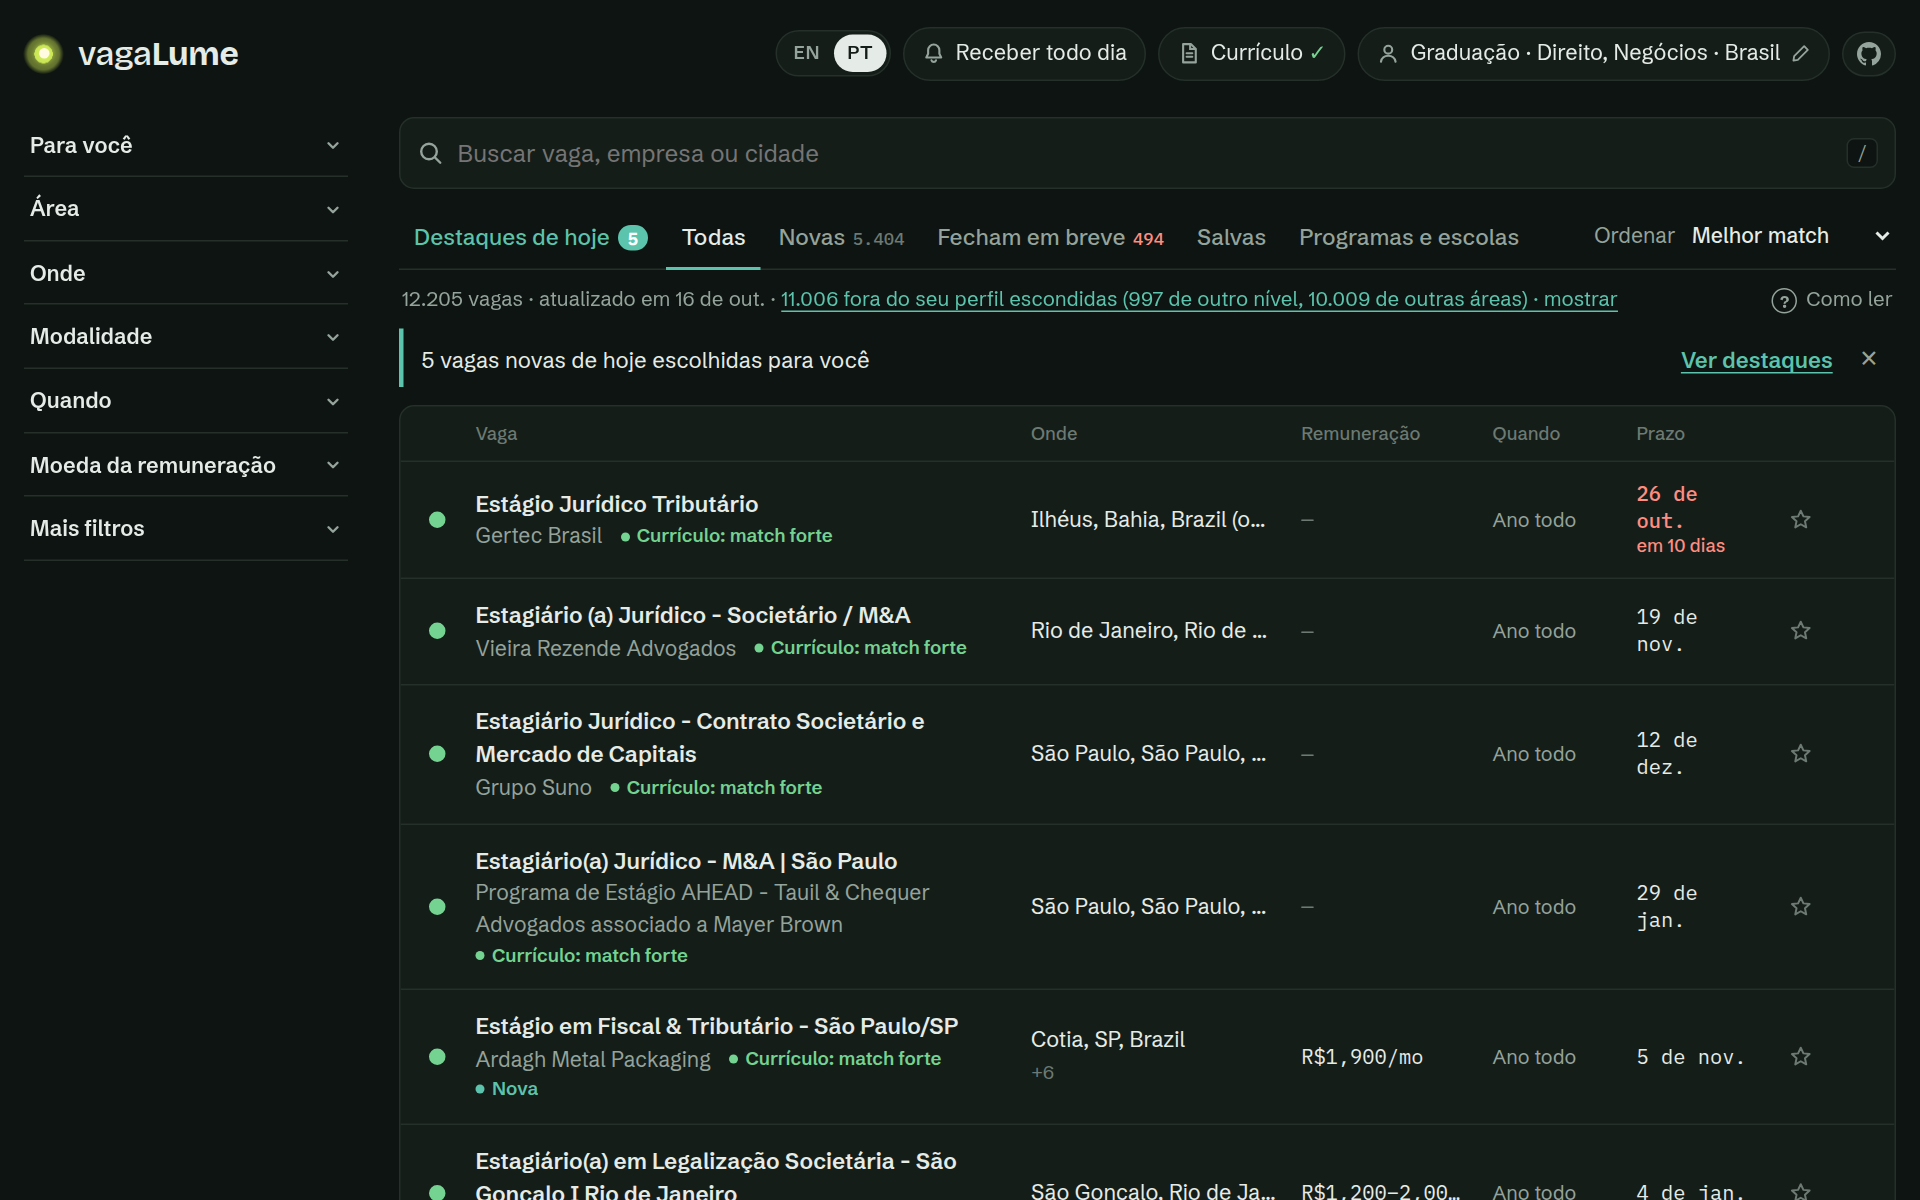
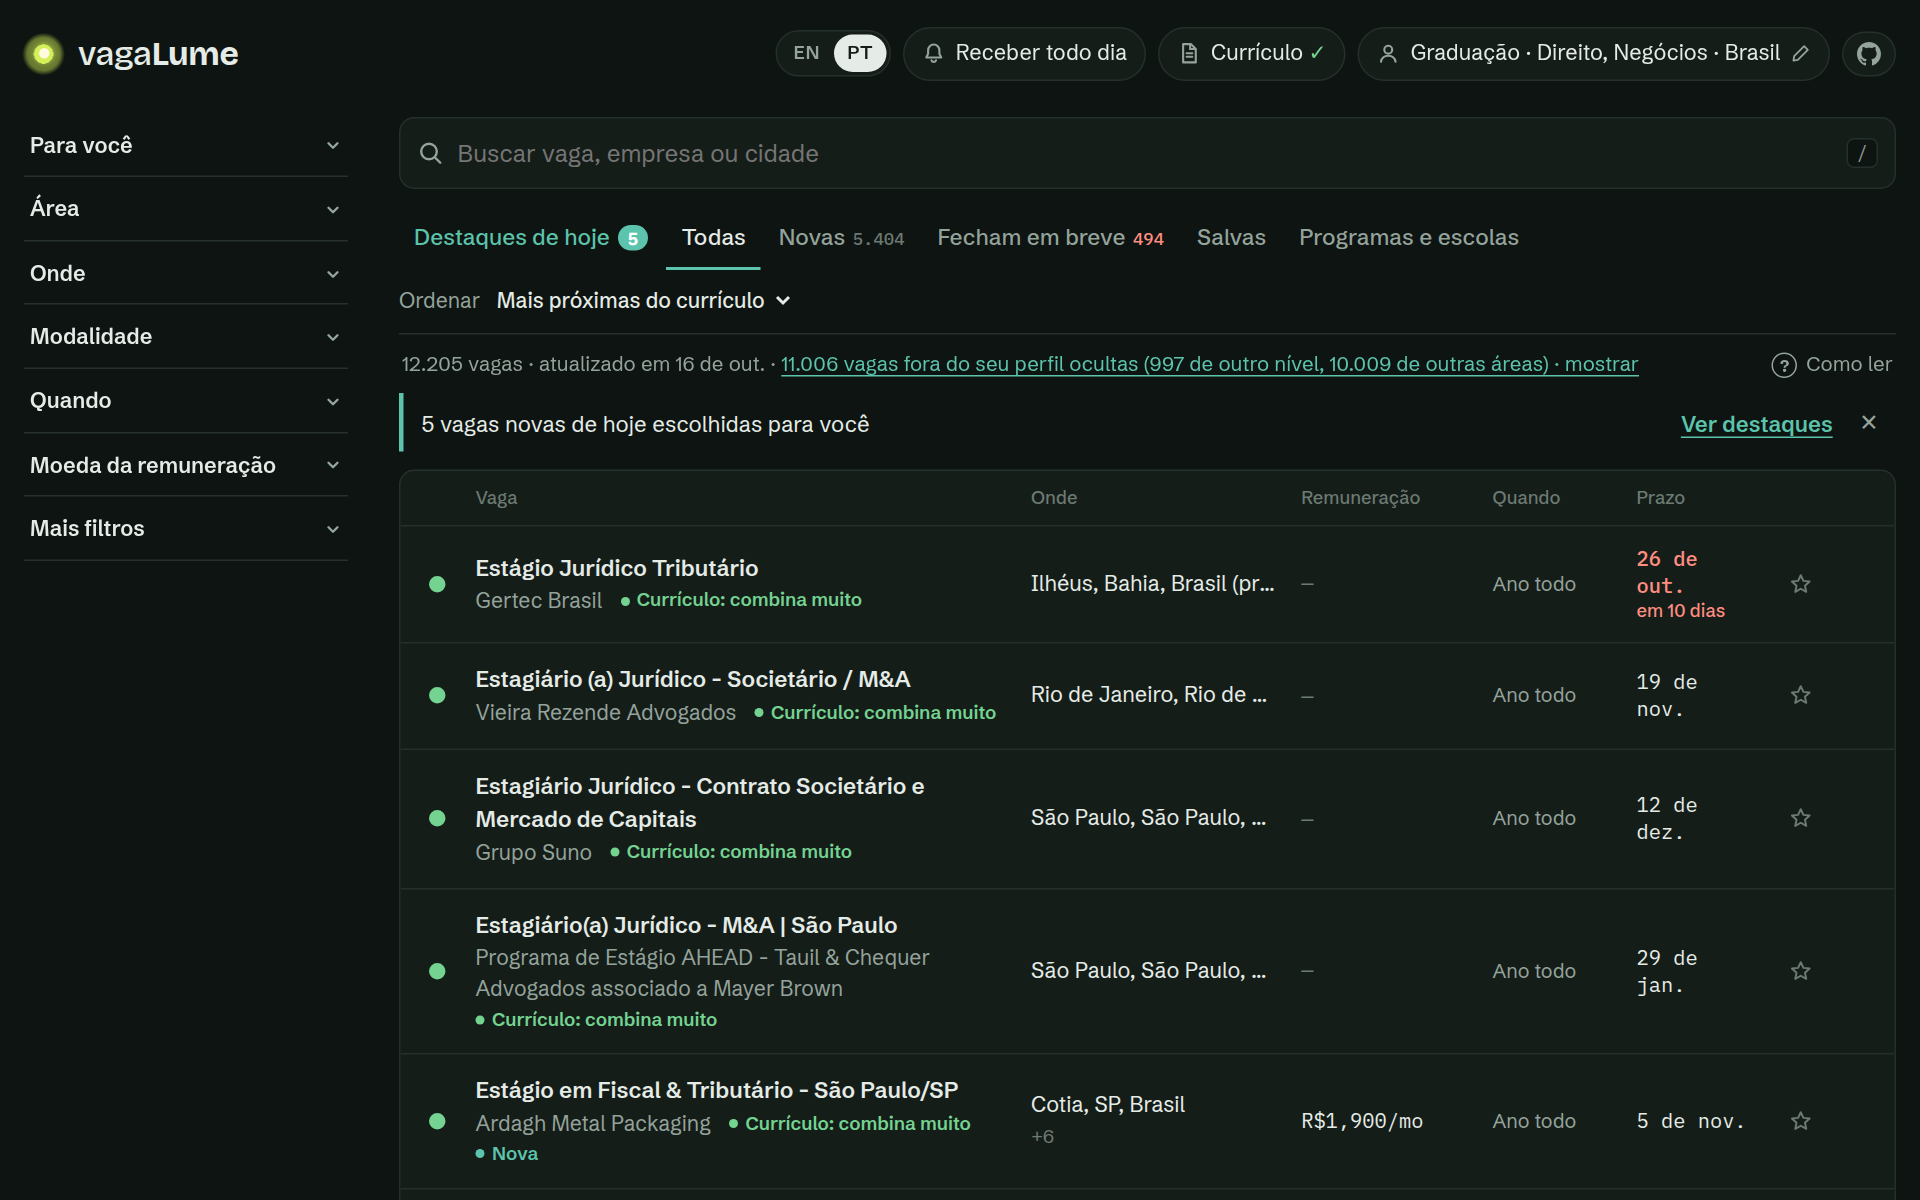
PT-BR skills and places; capitalized seasons; new shots

diff --git a/docs/index.html b/docs/index.html
@@ -909,6 +909,29 @@ const CURRENCY_ORDER = ["BRL", "USD", "EUR", "GBP", "CAD", "other"];
 const currencyOf = i => !i.pay ? "" : /^R\$/.test(i.pay) ? "BRL" : /^CA\$/.test(i.pay) ? "CAD" : /^\$/.test(i.pay) ? "USD"
   : /^€/.test(i.pay) ? "EUR" : /^£/.test(i.pay) ? "GBP" : "other";
 // Brazilian states for "Moro em" (radar/places.py labels each Brazilian role with its UFs).
+// Skill names are kept in English (radar/skills.py, the résumé prompt); in Portuguese they show like this.
+const SKILL_PT = { "Machine learning": "Aprendizado de máquina", "Deep learning": "Aprendizado profundo", "Computer vision": "Visão computacional",
+  "Reinforcement learning": "Aprendizado por reforço", "Statistics": "Estatística", "Probability": "Probabilidade", "Linear algebra": "Álgebra linear",
+  "Optimization": "Otimização", "Time series": "Séries temporais", "Data analysis": "Análise de dados", "Data structures": "Estruturas de dados",
+  "Distributed systems": "Sistemas distribuídos", "Robotics": "Robótica", "Control systems": "Sistemas de controle", "PLC": "CLP",
+  "Embedded systems": "Sistemas embarcados", "Electronics": "Eletrônica", "PCB design": "Projeto de PCB", "Signal processing": "Processamento de sinais",
+  "Financial markets": "Mercado financeiro", "Tax law": "Direito tributário", "Labor law": "Direito trabalhista", "Litigation": "Contencioso",
+  "Contracts": "Contratos", "Corporate law": "Direito societário", "Data protection (LGPD/GDPR)": "Proteção de dados (LGPD)",
+  "Legal research": "Pesquisa jurídica", "Patient care": "Cuidado ao paciente", "Nursing procedures": "Procedimentos de enfermagem",
+  "Pharmacology": "Farmacologia", "Clinical analysis": "Análises clínicas", "Public health": "Saúde pública", "Nutrition": "Nutrição",
+  "Physiotherapy": "Fisioterapia", "Psychology": "Psicologia", "Financial analysis": "Análise financeira", "Accounting": "Contabilidade",
+  "Financial modeling": "Modelagem financeira", "Sales": "Vendas", "Supply chain": "Cadeia de suprimentos", "Project management": "Gestão de projetos",
+  "Recruiting (HR)": "Recrutamento e seleção", "Customer service": "Atendimento ao cliente", "Digital marketing": "Marketing digital",
+  "Social media": "Redes sociais", "Video editing": "Edição de vídeo", "Quality management (ISO)": "Gestão da qualidade (ISO)",
+  "Workplace safety (NR)": "Segurança do trabalho (NR)", "Econometrics": "Econometria", "Lab techniques": "Técnicas de laboratório",
+  "GIS": "Geoprocessamento (SIG)", "Teaching": "Docência" };
+const skillName = s => LANG === "pt" && SKILL_PT[s] || s;
+// Locations come from the job boards in English ("Ilhéus, Bahia, Brazil (on-site)"); in Portuguese, the common words change.
+const PLACE_PT = [[/\bBrazil\b/g, "Brasil"], [/\(on-site\)/g, "(presencial)"], [/\(hybrid\)/g, "(híbrido)"], [/\(remote\)/g, "(remoto)"],
+  [/\bRemote\b/g, "Remoto"], [/\bUnited States of America\b|\bUnited States\b/g, "Estados Unidos"], [/\bGermany\b/g, "Alemanha"],
+  [/\bUnited Kingdom\b/g, "Reino Unido"], [/\bFrance\b/g, "França"], [/\bSpain\b/g, "Espanha"], [/\bNetherlands\b/g, "Holanda"],
+  [/\bSwitzerland\b/g, "Suíça"], [/\bMexico\b/g, "México"], [/\bPoland\b/g, "Polônia"], [/\bJapan\b/g, "Japão"], [/\bSweden\b/g, "Suécia"]];
+const placeText = text => LANG === "pt" ? PLACE_PT.reduce((out, [re, to]) => out.replace(re, to), text) : text;
 // Source keys -> the names people know (Sources table, source filter, "Found" line).
 const SOURCE_NAMES = { github_lists: "GitHub lists", gupy: "Gupy", ciee: "CIEE", superestagios: "Super Estágios", solides: "Sólides",
   iel: "IEL", ciadetalentos: "Cia de Talentos", fapesp: "FAPESP", programs: "programs", greenhouse: "Greenhouse", lever: "Lever",
@@ -989,7 +1012,7 @@ function applyIn(i) {
   return Math.min(...i.apply.map(m => (m - now + 12) % 12));
 }
 const isSoon = i => { const d = daysLeft(i.deadline); return d !== null && d >= 0 && d <= SOON_DAYS; };
-const locations = i => i.location.split(" / ").map(s => s.trim()).filter(Boolean);
+const locations = i => placeText(i.location).split(" / ").map(s => s.trim()).filter(Boolean);
 const regionNames = i => i.regions.filter(r => r !== "unknown").map(r => tv("region", r));
 const placeName = key => t(`place.${key}`);
 // "Engenharia, Computação" or, with more, "Engenharia +2".
@@ -1160,10 +1183,13 @@ function monthsUntil(ym) {
   const [y, m] = ym.split("-").map(Number);
   return (y - today.getFullYear()) * 12 + ((m || 12) - (today.getMonth() + 1));
 }
+// Season names are lower case in Portuguese so they read well inside a sentence ("Acontece em dez–fev");
+// on their own (a chip, the "Quando" line) they start with a capital.
+const cap = text => text.charAt(0).toUpperCase() + text.slice(1);
 function seasonText(season) {
   if (season === "unknown") return t("d.notStated");
   if (season === "year-round") return tv("season", season);
-  return `${tv("season", season)} · ${t(fitsBreaks(season) ? "season.inBreak" : "season.inClass")}`;
+  return `${cap(tv("season", season))} · ${t(fitsBreaks(season) ? "season.inBreak" : "season.inClass")}`;
 }
 
 // ------------------------------------------------------------------ fit
@@ -1488,7 +1514,7 @@ function renderResumeSummary(note = "") {
     <h2>${t("resume.summary")}</h2>
     ${note ? `<p class="copied">${esc(note)}</p>` : ""}
     <dl class="facts-list">${rows.map(([k, v]) => `<dt>${k}</dt><dd>${esc(v)}</dd>`).join("")}
-      <dt>${t("resume.skills", resume.skills.length)}</dt><dd><div class="skill-list">${resume.skills.map(s => `<span class="skill">${esc(s)}</span>`).join("")}</div></dd></dl>
+      <dt>${t("resume.skills", resume.skills.length)}</dt><dd><div class="skill-list">${resume.skills.map(s => `<span class="skill">${esc(skillName(s))}</span>`).join("")}</div></dd></dl>
     ${hasProfile() ? `<p class="muted">${esc(t("resume.profile", profileName()))}</p>` : ""}
     ${pendingProfile ? `<div class="pending-profile"><p>${esc(t("resume.proposes", profileChanges(pendingProfile)))}</p>
       <div class="button-row"><button class="btn" id="resume-apply">${t("resume.apply")}</button><button class="linkish" id="resume-keep">${t("resume.keep")}</button></div></div>` : ""}
@@ -1659,7 +1685,7 @@ function togglePick(key, value) {
 // Each filter as a test; `skip` leaves one out so its own chips can count what they would add.
 const FILTER_TESTS = {
   // Accents don't matter: "estagio" finds "estágio", "niteroi" finds "Niterói".
-  q: i => fold(view.q).split(/\s+/).filter(Boolean).every(w => (i._q ??= fold(`${i.title} ${i.org} ${i.location}`)).includes(w)),
+  q: i => fold(view.q).split(/\s+/).filter(Boolean).every(w => (i._q ??= fold(`${i.title} ${i.org} ${i.location} ${placeText(i.location)}`)).includes(w)),
   match: i => !!i._match && (view.match === "strong" ? i._match.level === 0 : i._match.level <= 1),
   fit: i => view.fit === "good" ? i._fit.level === 0 : i._fit.level === 0 || i._fit.level === 1,
   area: i => picked("area").some(v => areaMatches(i, v)),
@@ -1790,7 +1816,7 @@ function matchDetails(i) {
   if (m.area) lines.push(t("m.area", resume.areas.includes(i.area) ? tv("area", i.area) : t(`sub.${(i.subs || []).find(s => resume.areas.includes(s))}`)));
   if (m.role) lines.push(t("m.role", m.role));
   if (!i.skills.length) lines.push(t("m.noSkills"));
-  const chips = m.have.map(s => `<span class="skill hit">✓ ${esc(s)}</span>`).concat(m.missing.map(s => `<span class="skill miss">${esc(s)}</span>`)).join("");
+  const chips = m.have.map(s => `<span class="skill hit">✓ ${esc(skillName(s))}</span>`).concat(m.missing.map(s => `<span class="skill miss">${esc(skillName(s))}</span>`)).join("");
   return `<div><h4>${t(`match.${m.level}`)}</h4>
     ${i.skills.length ? `<p>${m.have.length ? t("m.have", m.have.length, i.skills.length) : t("m.haveNone", i.skills.length)}</p><div class="skill-list">${chips}</div>` : ""}
     ${lines.length ? `<p class="muted">${esc(lines.join(" · "))}</p>` : ""}</div>`;
@@ -1907,7 +1933,7 @@ function buildFilters(inTab) {
   const seasonPool = base("season");
   const seasons = countBy(seasonPool, i => [i.season], SEASON_ORDER.slice(1)).filter(v => v !== "unknown" || isPicked("season", "unknown"));
   chipGroup("season", [["breaks", t("season.breaks"), seasonPool.filter(i => fitsBreaks(i.season)).length],
-    ...seasons.map(v => [v, tv("season", v), seasonPool.filter(i => i.season === v).length])]);
+    ...seasons.map(v => [v, cap(tv("season", v)), seasonPool.filter(i => i.season === v).length])]);
   const sourcePool = base("source");
   const sources = countBy(sourcePool, i => [i.source], []);
   $("source").innerHTML = `<option value="">${t("filters.allSources")}</option>` + sources.map(s => `<option value="${esc(s)}">${esc(srcName(s))} (${fmtN(sourcePool.filter(i => i.source === s).length)})</option>`).join("");
